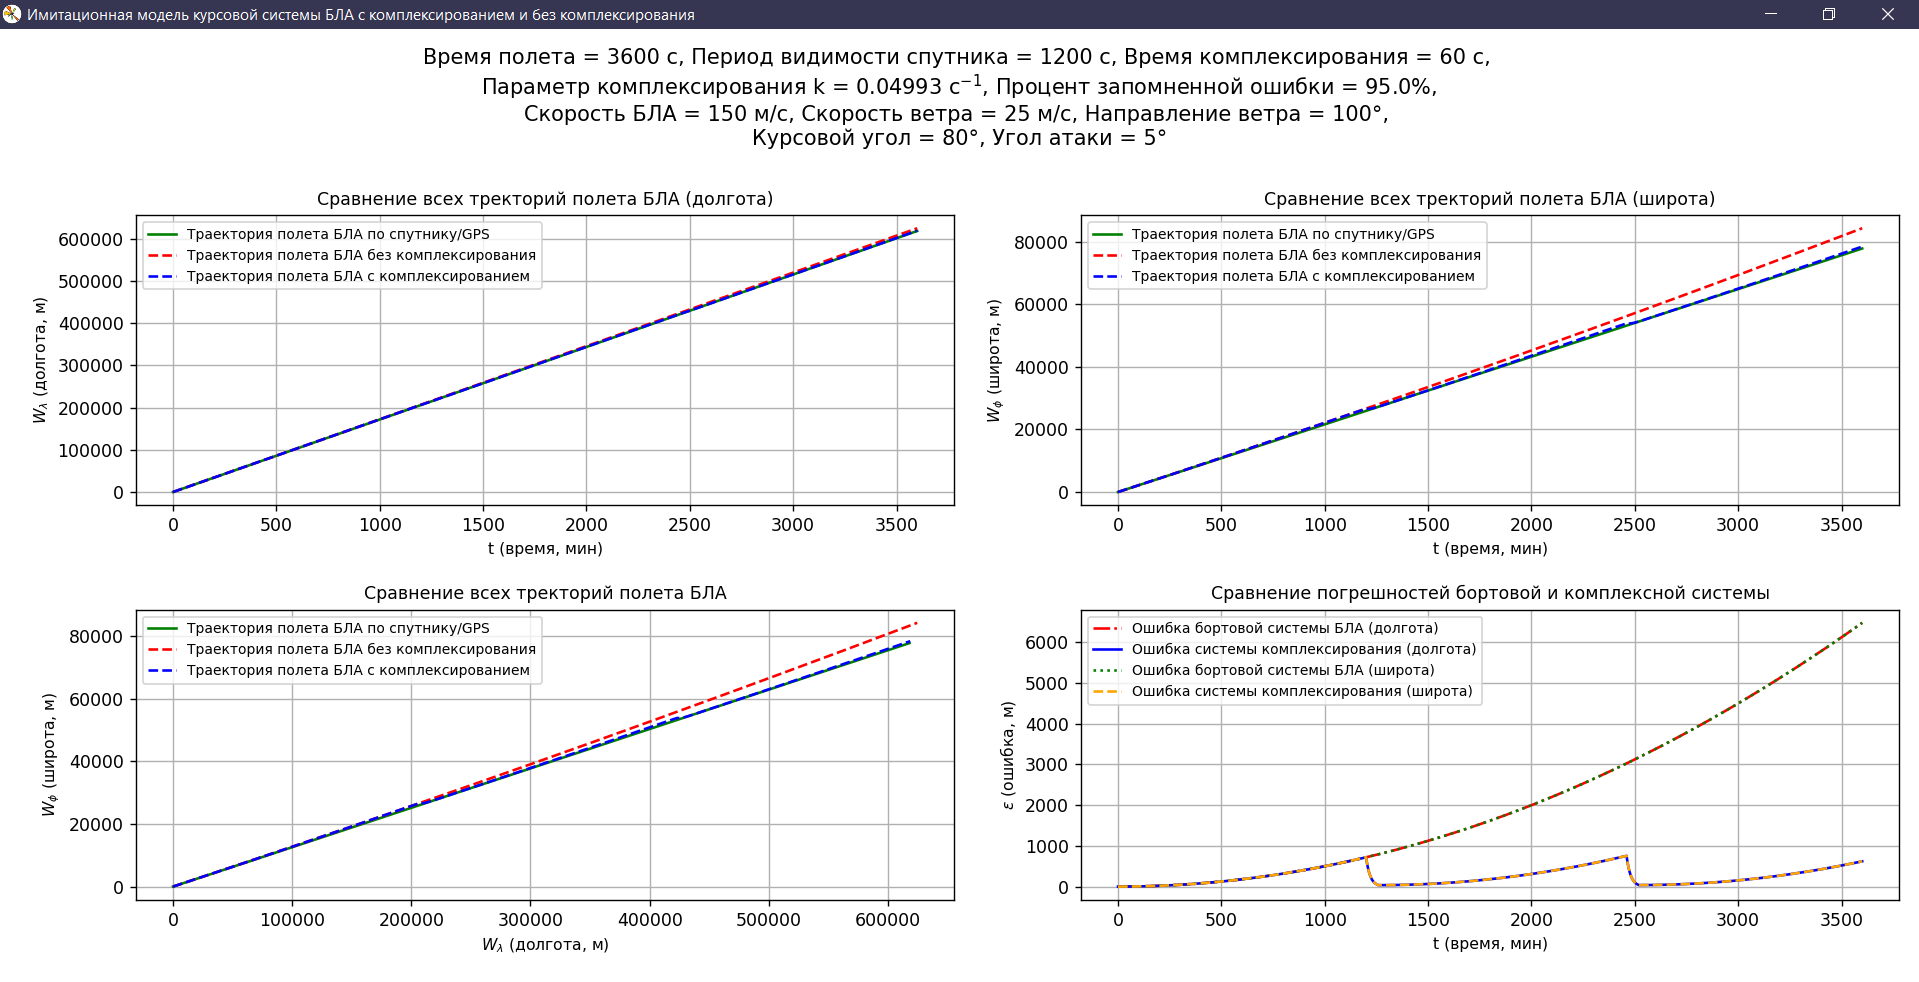
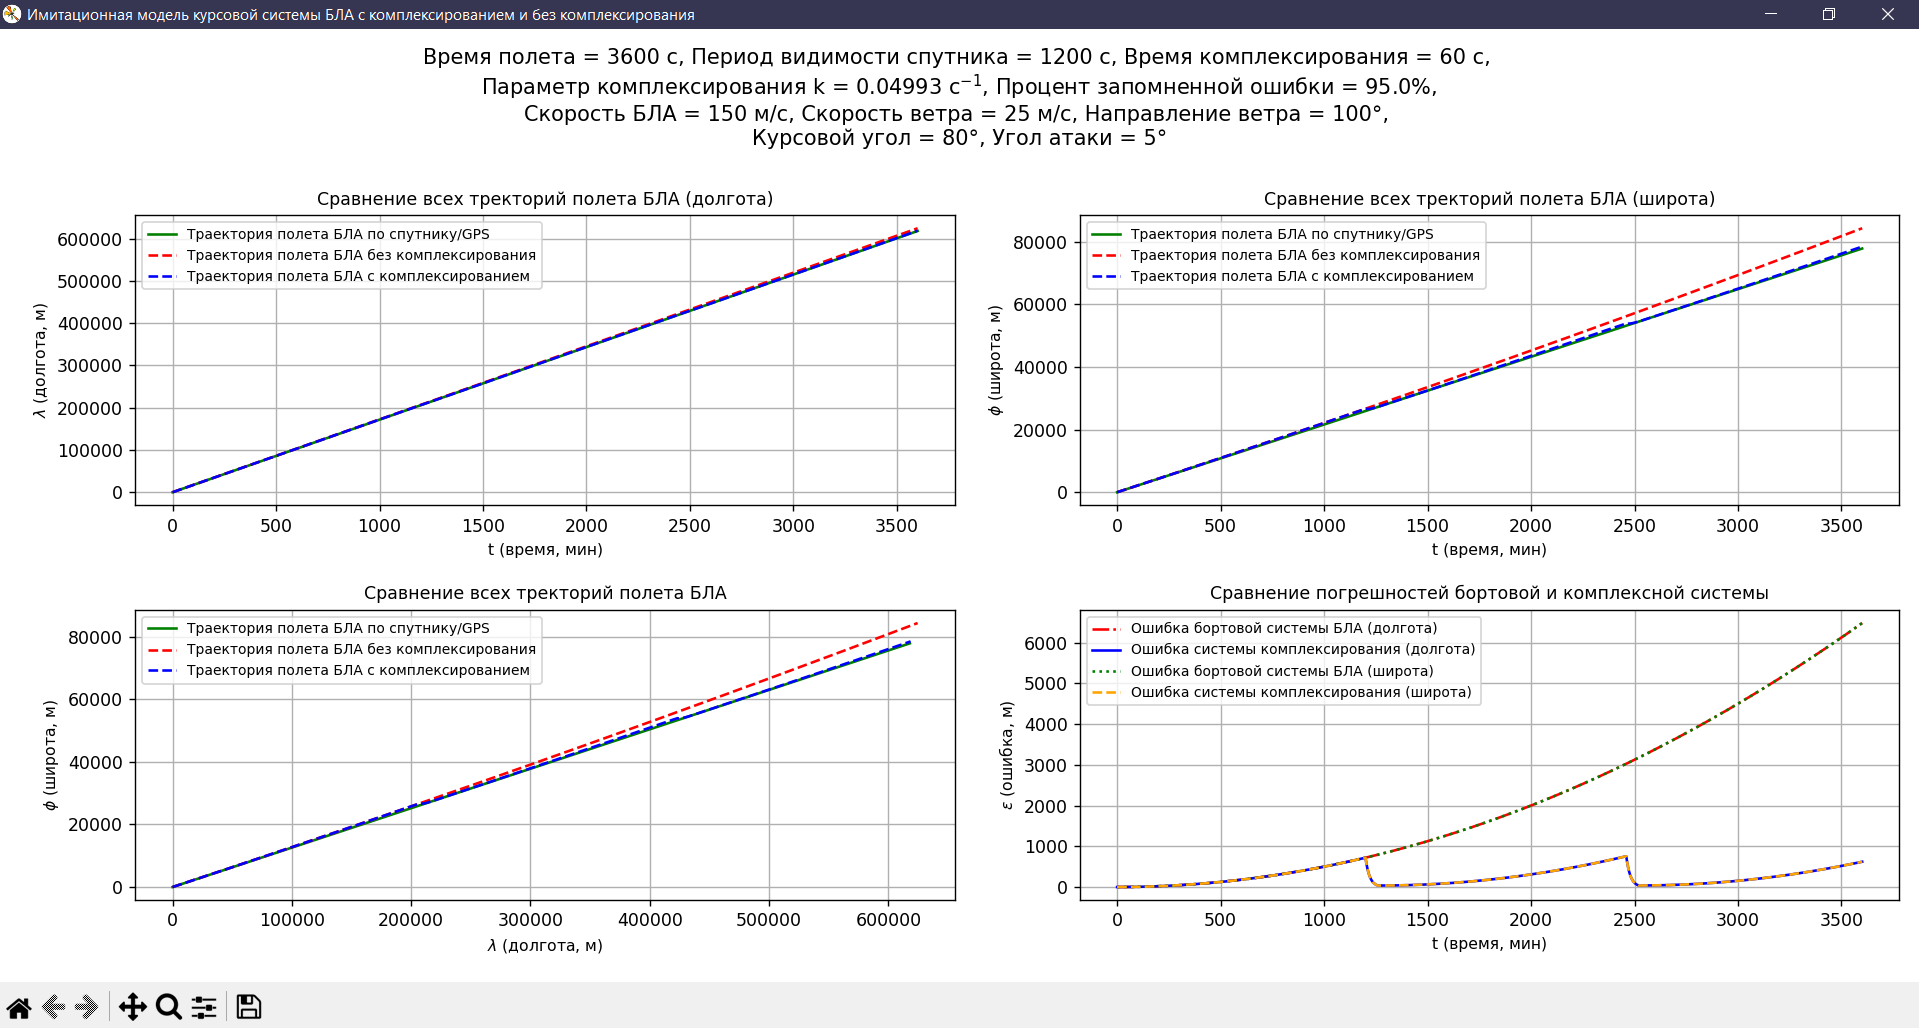
lab3 finally update

diff --git a/Classical mathematical models of complex systems/Lab2-3/UAV_flight_TOTAL/UAV_flight_TOTAL.py b/Classical mathematical models of complex systems/Lab2-3/UAV_flight_TOTAL/UAV_flight_TOTAL.py
@@ -20,6 +20,7 @@ class ExcelParser:
         return xls.sheet_names
 
     def _read_sheet(self, sheet_name=0):
+        """ Возвращает обработанный DataFrame для чтения указанного листа Excel с заголовками """
         df = pd.read_excel(self.filepath, sheet_name=sheet_name, header=None)   # DataFrame для чтения указанного листа Excel с заголовками
         df = df[pd.to_numeric(df.iloc[:, 0], errors='coerce').notna()]          # Фильтр для оставления только числовых данных
         df = df.reset_index(drop=True)                                          # Реиндексация данных после удаления "неправильных"
@@ -359,6 +360,18 @@ class SimulationManager:
         self.x_sp = x_sp
         self.y_sp = y_sp
 
+    def _compute_path(self, x, y):
+        """ Вычисление пройденного пути БЛА """
+        # Приведение к массивам NumPy
+        x = np.array(x, dtype=float)
+        y = np.array(y, dtype=float)
+        # Вычисление
+        dx = np.diff(x)              # приращения по долготе
+        dy = np.diff(y)              # приращения по широте
+        ds = np.sqrt(dx**2 + dy**2)  # пройденный путь в каждый момент времени
+        path = np.cumsum(ds)         # накопленный путь в каждый момент времени
+        return path
+
     def run(self):
         """ Реализация моделирования полета БЛА и расчета ошибок """
         x, y = self.model_flight.simulate()
@@ -426,13 +439,38 @@ class SimulationManager:
             x_GPS = self.x_sp
             y_GPS = self.y_sp
             
+        # Вывод
+        print("Среднеквадратические ошибки определения координат положения БЛА:")
+        MSE_X_without_GPS = np.sqrt(np.mean((np.array(x_GPS) - np.array(x_without_GPS)) ** 2))
+        MSE_Y_without_GPS = np.sqrt(np.mean((np.array(y_GPS) - np.array(y_without_GPS)) ** 2))
+        MSE_X_with_GPS = np.sqrt(np.mean((np.array(x_GPS) - np.array(x_with_GPS)) ** 2))
+        MSE_Y_with_GPS = np.sqrt(np.mean((np.array(y_GPS) - np.array(y_with_GPS)) ** 2))
+        print(f"- Долгота [без комплексирования]: MSE = {MSE_X_without_GPS:5f} м")
+        print(f"- Широта  [без комплексирования]: MSE = {MSE_Y_without_GPS:5f} м")
+        print(f"- Долгота [с комплексированием]: MSE = {MSE_X_with_GPS:5f} м")
+        print(f"- Широта  [с комплексированием]: MSE = {MSE_Y_with_GPS:5f} м")
+        print(f"- Снижение MSE (долгота) : MSE = {100 - MSE_X_with_GPS/MSE_X_without_GPS * 100:5f}%")
+        print(f"- Снижение MSE  (широта) : MSE = {100 - MSE_Y_with_GPS/MSE_Y_without_GPS * 100:5f}%")
+        print()
+        
+        print("Среднеквадратические ошибки вычисления пройденного пути БЛА:")
+        path_without_GPS = self._compute_path(x_without_GPS, y_without_GPS)
+        path_with_GPS = self._compute_path(x_with_GPS, y_with_GPS)
+        path_GPS = self._compute_path(x_GPS, y_GPS)
+        MSE_path_without_GPS = np.sqrt(np.mean((np.array(path_GPS) - np.array(path_without_GPS))**2))
+        MSE_path_with_GPS = np.sqrt(np.mean((np.array(path_GPS) - np.array(path_with_GPS))**2))
+        print(f"- [без комплексирования] MSE = {MSE_path_without_GPS:5f} м")
+        print(f"- [c комплексированием]  MSE = {MSE_path_with_GPS:5f} м")
+        print(f"- Снижение MSE: {100 - MSE_path_with_GPS/MSE_path_without_GPS * 100:5f}%")
+        print("\n")
+        
         # Траектория полета БЛА + Траектории полета БЛА без комплексирования и с ним (долгота + время)
         axs[0, 0].plot(t, x_GPS, label="Траектория полета БЛА по спутнику/GPS", color='green', linestyle='-')
         axs[0, 0].plot(t, x_without_GPS, label="Траектория полета БЛА без комплексирования", color='red', linestyle='--')
         axs[0, 0].plot(t, x_with_GPS, label="Траектория полета БЛА с комплексированием", color='blue', linestyle='--')
         axs[0, 0].set_title("Сравнение всех тректорий полета БЛА (долгота)", fontsize=10)
         axs[0, 0].set_xlabel("t (время, мин)", fontsize=9)
-        axs[0, 0].set_ylabel("$W_\lambda$ (долгота, м)", fontsize=9)
+        axs[0, 0].set_ylabel("$\lambda$ (долгота, м)", fontsize=9)
         axs[0, 0].legend(fontsize=8)
         axs[0, 0].grid(True)
         
@@ -442,7 +480,7 @@ class SimulationManager:
         axs[0, 1].plot(t, y_with_GPS, label="Траектория полета БЛА с комплексированием", color='blue', linestyle='--')
         axs[0, 1].set_title("Сравнение всех тректорий полета БЛА (широта)", fontsize=10)
         axs[0, 1].set_xlabel("t (время, мин)", fontsize=9)
-        axs[0, 1].set_ylabel("$W_\phi$ (широта, м)", fontsize=9)
+        axs[0, 1].set_ylabel("$\phi$ (широта, м)", fontsize=9)
         axs[0, 1].legend(fontsize=8)
         axs[0, 1].grid(True)
 
@@ -451,8 +489,8 @@ class SimulationManager:
         axs[1, 0].plot(x_without_GPS, y_without_GPS, label="Траектория полета БЛА без комплексирования", color='red', linestyle='--')
         axs[1, 0].plot(x_with_GPS, y_with_GPS, label="Траектория полета БЛА с комплексированием", color='blue', linestyle='--')
         axs[1, 0].set_title("Сравнение всех тректорий полета БЛА", fontsize=10)
-        axs[1, 0].set_xlabel("$W_\lambda$ (долгота, м)", fontsize=9)
-        axs[1, 0].set_ylabel("$W_\phi$ (широта, м)", fontsize=9)
+        axs[1, 0].set_xlabel("$\lambda$ (долгота, м)", fontsize=9)
+        axs[1, 0].set_ylabel("$\phi$ (широта, м)", fontsize=9)
         axs[1, 0].legend(fontsize=8)
         axs[1, 0].grid(True)
 
